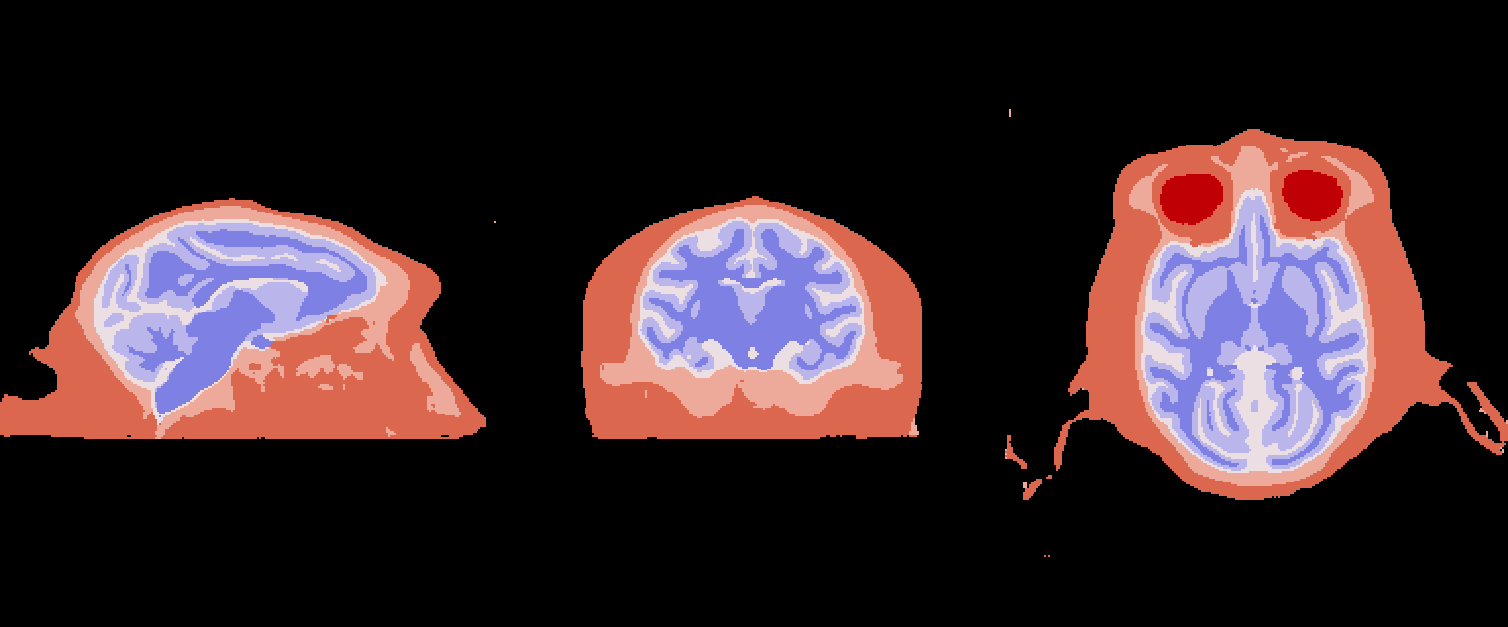
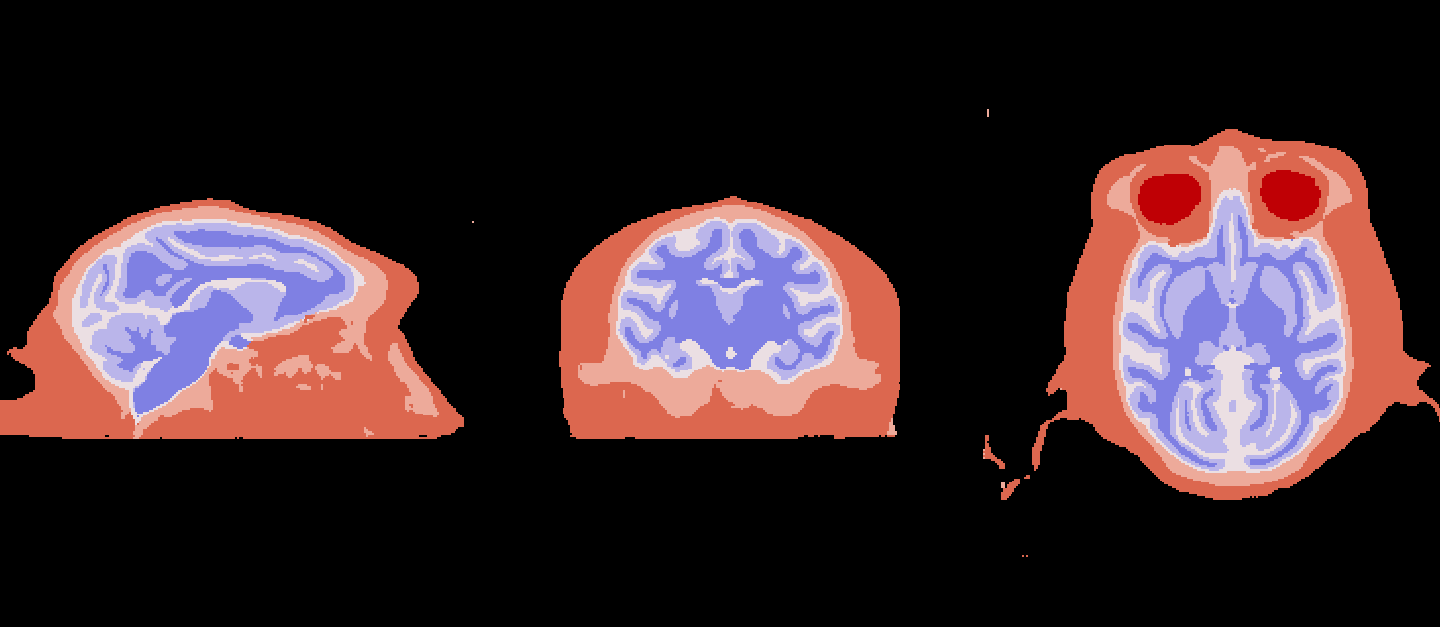
adjust project cover fig size

diff --git a/_pages/about.md b/_pages/about.md
@@ -14,4 +14,4 @@ selected_papers: false # includes a list of papers marked as "selected={true}"
 social: true  # includes social icons at the bottom of the page
 ---
 
-I am a first-year Ph.D. student in the School of Bioengineering/Electrical and Computer Engineering at the Georgia Institute of Technology, advised by [Dr. Vince D. Calhoun](https://scholar.google.com/citations?user=WNOoGKIAAAAJ&hl=en). My research interests focus on multi-modal neuroimaging and deep learning. I hope to improve the interpretability and generalizability of deep learning algorithms for clinical applications and better understand mental disorders. Here is my [CV](assets/pdf/XinhuiLi-CV-09-21.pdf).
+I am a first-year Ph.D. student in the School of [Bioengineering](https://bioengineering.gatech.edu/) and [Electrical and Computer Engineering](https://www.ece.gatech.edu/) at the Georgia Institute of Technology, advised by [Dr. Vince D. Calhoun](https://scholar.google.com/citations?user=WNOoGKIAAAAJ&hl=en). My research interests focus on multi-modal neuroimaging and deep learning. I hope to improve the interpretability and generalizability of deep learning algorithms for clinical applications and better understand mental disorders. Here is my [CV](assets/pdf/XinhuiLi-CV-09-21.pdf).
